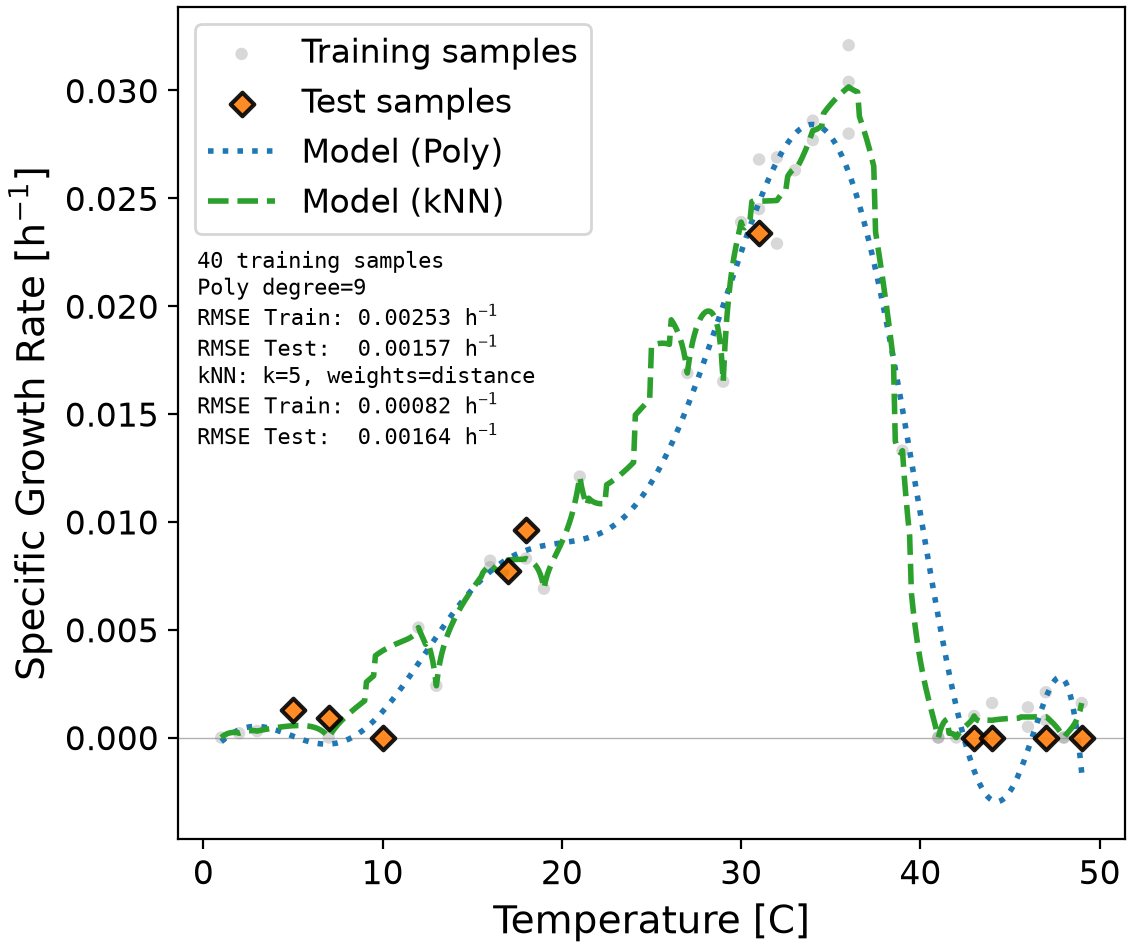
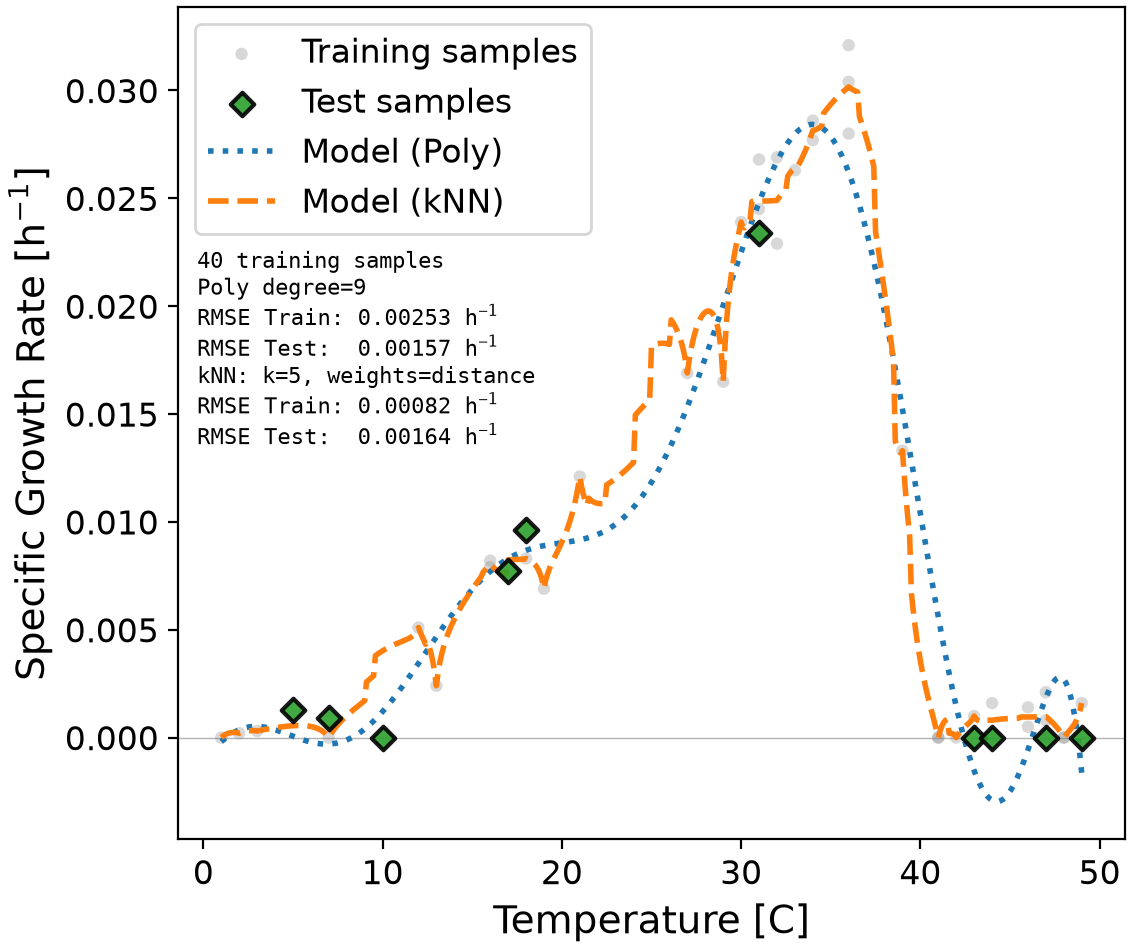
Updated unit 4 > main 10

diff --git a/units/unit_04/main_10_learning_curves.py b/units/unit_04/main_10_learning_curves.py
@@ -64,6 +64,10 @@ fontsize_text = 8
 str_hm1 = r"$h^{-1}$"  # Will show a proper superscript in the figure.
 dx = 0.1  # Plot every 0.1 C on the x-axis
 
+c_poly = "tab:blue"
+c_knn = "tab:orange"
+c_test = "tab:green"
+
 # We are going to generate a learning curve to monitor how RMSE changes with number of training samples
 lc_n_training_samples = []
 lc_rmse_poly_train = []
@@ -135,11 +139,11 @@ for n_samples in range(20, 110, 10):
 
     ax.scatter(x_train, y_train, label="Training samples", s=20, color="grey", marker="o", edgecolors="none",
                alpha=0.3, zorder=1)
-    ax.scatter(x_test, y_test, label="Test samples", s=36, color="tab:orange", marker="D", edgecolors="black",
+    ax.scatter(x_test, y_test, label="Test samples", s=36, color=c_test, marker="D", edgecolors="black",
                linewidth=1.5, alpha=0.9, zorder=3)
 
-    ax.plot(x_plot, y_plot_poly, color="tab:blue", label="Model (Poly)", linestyle=":", linewidth=2, zorder=2)
-    ax.plot(x_plot, y_plot_knn, color="tab:green", label="Model (kNN)", linestyle="--", linewidth=2, zorder=2)
+    ax.plot(x_plot, y_plot_poly, color=c_poly, label="Model (Poly)", linestyle=":", linewidth=2, zorder=2)
+    ax.plot(x_plot, y_plot_knn, color=c_knn, label="Model (kNN)", linestyle="--", linewidth=2, zorder=2)
 
     ax.set_xlabel(features[0], fontsize=fontsize_xy_label)
     ax.set_ylabel(target.replace("h^-1", str_hm1), fontsize=fontsize_xy_label)
@@ -161,10 +165,10 @@ for n_samples in range(20, 110, 10):
 
 # Plot the learning curve
 fig, ax = plt.subplots(1, 1, figsize=(fig_width, fig_height), dpi=200, layout="constrained")
-ax.plot(lc_n_training_samples, lc_rmse_poly_train, label="RMSE Train (Poly)", color="tab:blue", linestyle="-")
-ax.plot(lc_n_training_samples, lc_rmse_poly_test, label="RMSE Test (Poly)", color="tab:blue", linestyle="--")
-ax.plot(lc_n_training_samples, lc_rmse_knn_train, label="RMSE Train (kNN)", color="tab:green", linestyle="-.")
-ax.plot(lc_n_training_samples, lc_rmse_knn_test, label="RMSE Test (kNN)", color="tab:green", linestyle=":")
+ax.plot(lc_n_training_samples, lc_rmse_poly_train, label="RMSE Train (Poly)", color=c_poly, linestyle="-")
+ax.plot(lc_n_training_samples, lc_rmse_poly_test, label="RMSE Test (Poly)", color=c_poly, linestyle="--")
+ax.plot(lc_n_training_samples, lc_rmse_knn_train, label="RMSE Train (kNN)", color=c_knn, linestyle="-")
+ax.plot(lc_n_training_samples, lc_rmse_knn_test, label="RMSE Test (kNN)", color=c_knn, linestyle="--")
 ax.set_xlabel("Number of training samples", fontsize=fontsize_xy_label)
 ax.set_ylabel(f"RMSE [{str_hm1}]", fontsize=fontsize_xy_label)
 ax.tick_params(axis='both', which='major', labelsize=fontsize_ticks)
